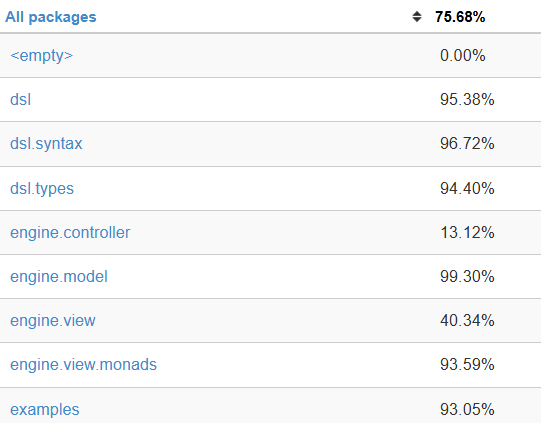
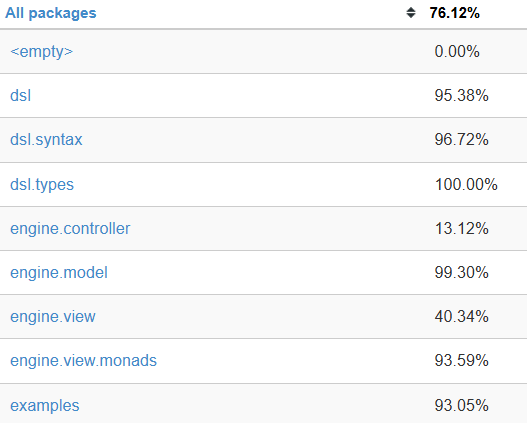
[doc] continuing testing chapter -- missing scoverage

diff --git a/7-testing/index.md b/7-testing/index.md
@@ -7,7 +7,8 @@ We tried to follow a Test-Driven Development (TDD) approach, where tests are wri
 After the implementation of a feature, we also checked the coverage of the tests using Scoverage, possibly improving the coverage by adding more tests.
 
 ## Coverage
-Scoverage reported a coverage of 75.68% for the project which is a bit lower than 80%, that was our aim since the start.
+Scoverage reported a coverage of 76.12% for the project which is a bit lower than 80%, that was our aim since the start.
+The full scoverage report can be found [here](scoverage-report/index.html), or at PPS-24-Briscala/target/scala-3.3.6/scoverage-report/index.html.
 
 ![Test_Coverage](../res/scoverage.png "Test Coverage")
 
